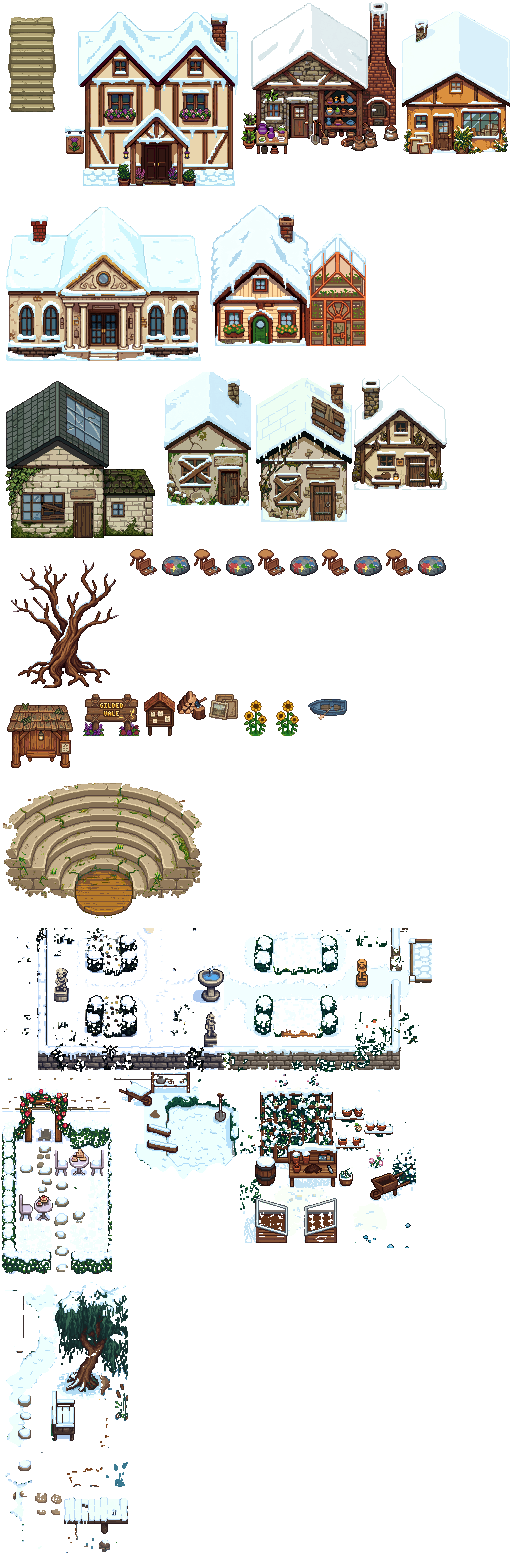
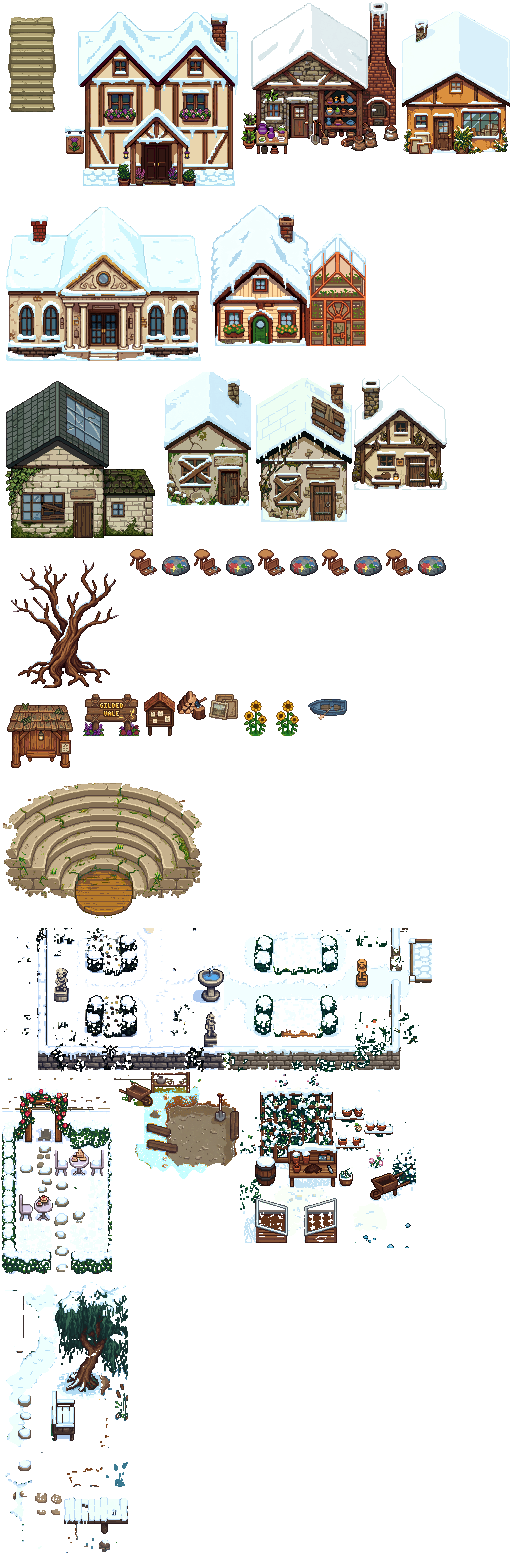
Gilded Vale: clay bank keeps its barrow and drying rack in every season
Its winter recolours bare ground only (the snow edit repainted the barrow);
its rack may stand on the lane's curb, drawn over the farmer.

Changed region(s): [[0.25, 0.6875, 0.4688, 0.75]]

diff --git a/tools/build_vale.py b/tools/build_vale.py
@@ -116,6 +116,13 @@ AMPHITHEATRE = ("amphitheatre/amph_s1_0", 31, 46)
 # a track to nowhere (the user, 2026-11-06).
 # The nursery's log ran into the frame's edge and stopped flat: it goes, its glowing
 # mushrooms (Fern's "humming" ones) stay, growing straight from the grass.
+# Features whose winter is their spring art with bare ground recoloured, not the snow
+# edit: nothing in them dies back, and the edit repainted the clay bank's barrow and
+# filled its pit (the user, 2026-11-07).
+WINTER_RECOLOUR = {"clay"}
+# Features allowed to draw over the paving's edge (drawn over the farmer, so the lane
+# still walks): the clay bank's drying rack stands on the lane's curb.
+OVER_PAVING = {"clay"}
 FEATURE_ERASE = {"clay": [(0, 34, 32, 72)], "nursery": [(100, 159, 176, 176, "keep_blue"), (150, 146, 176, 159, "keep_blue")]}
 FEATURES = {
     "parterre": ("features/parterre_v2/parterre_s13_0", (48, 144, 480, 288), 3, 39),   # I: the Lost Parterre (Fern)
@@ -1141,7 +1148,7 @@ def place_buildings(g, assets):
         # cut against the bare map in winter (features/winter/bare_winter.png, rendered
         # with VALE_NO_FEATURES set) the way spring is cut against the bare map in spring.
         wpath = os.path.join(ART, "features", "winter", name + "_0.png")
-        if os.path.exists(wpath):
+        if os.path.exists(wpath) and name not in WINTER_RECOLOUR:
             mb = (left * 16, top * 16, left * 16 + im.width, top * 16 + im.height)
             # the spring cut-out's exact footprint, in its winter colours: cutting snow
             # against snow left scattered flecks (the user: winter "extraordinarily messy")
@@ -1187,7 +1194,9 @@ def place_buildings(g, assets):
                         continue
                     tx, ty = left + i, bottom + j
                     if "C" in GROUND.get((g["Back"][ty][tx], g["Buildings"][ty][tx]), ()):
-                        continue        # never over the paving: the lanes stay the map's, and walkable
+                        if name[len("feature:"):] in OVER_PAVING and not walk[(i, j)]:
+                            g["Front"][ty][tx] = BUILD_FIRST + (sy + j) * SHEET_COLS + sx + i
+                        continue        # never under-foot on the paving: the lanes stay the map's, and walkable
                     gid = BUILD_FIRST + (sy + j) * SHEET_COLS + sx + i
                     # Never over the map's own ground pieces (a shore's rock edge on
                     # Buildings stays, and the art goes above it on Buildings2).
